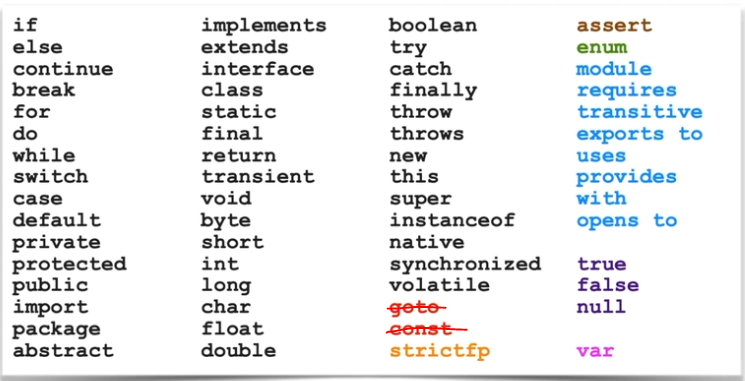
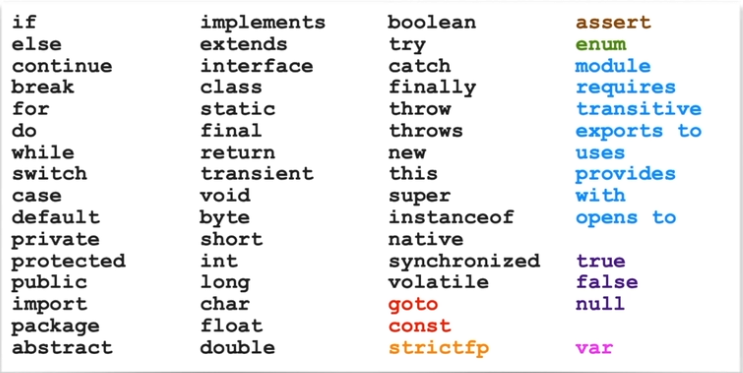
adds Java naming convetion examples
- updates README including Java keywords and more Java naming options
- adds MIT License in Java classes

diff --git a/src/main/java/com/amazon/naming/Main.java b/src/main/java/com/amazon/naming/Main.java
@@ -1,0 +1,38 @@
+/*
+ * MIT License
+ *
+ * Copyright (c)  2021 Jose Osuna
+ *
+ * Permission is hereby granted, free of charge, to any person obtaining a copy of this software and associated documentation files (the "Software"), to deal in the Software without restriction, including without limitation the rights to use, copy, modify, merge, publish, distribute, sublicense, and/or sell copies of the Software, and to permit persons to whom the Software is furnished to do so, subject to the following conditions:
+ *
+ * The above copyright notice and this permission notice shall be included in all copies or substantial portions of the Software.
+ *
+ * THE SOFTWARE IS PROVIDED "AS IS", WITHOUT WARRANTY OF ANY KIND, EXPRESS OR IMPLIED, INCLUDING BUT NOT LIMITED TO THE WARRANTIES OF MERCHANTABILITY, FITNESS FOR A PARTICULAR PURPOSE AND NONINFRINGEMENT. IN NO EVENT SHALL THE AUTHORS OR COPYRIGHT HOLDERS BE LIABLE FOR ANY CLAIM, DAMAGES OR OTHER LIABILITY, WHETHER IN AN ACTION OF CONTRACT, TORT OR OTHERWISE, ARISING FROM, OUT OF OR IN CONNECTION WITH THE SOFTWARE OR THE USE OR OTHER DEALINGS IN THE SOFTWARE.
+ *
+ */
+
+package com.amazon.naming;
+
+public class Main {
+    public static void main(String[] args) {
+        int _not = 3;
+        int $not = 6;
+        int not5 = 9;
+        int $$ = 12;
+
+        System.out.println("_not: " + _not);
+        System.out.println("$not: " + $not);
+        System.out.println("not5: " + not5);
+        System.out.println("$$: " + $$);
+
+        _Class _class = new _Class();
+        $Class $class = new $Class();
+        $ $ = new $();
+
+        xyz();
+    }
+
+    private static void xyz() {
+        System.out.println("this is xyz method");
+    }
+}

diff --git a/src/main/java/com/amazon/naming/$Class.java b/src/main/java/com/amazon/naming/$Class.java
@@ -1,0 +1,20 @@
+/*
+ * MIT License
+ *
+ * Copyright (c)  2021 Jose Osuna
+ *
+ * Permission is hereby granted, free of charge, to any person obtaining a copy of this software and associated documentation files (the "Software"), to deal in the Software without restriction, including without limitation the rights to use, copy, modify, merge, publish, distribute, sublicense, and/or sell copies of the Software, and to permit persons to whom the Software is furnished to do so, subject to the following conditions:
+ *
+ * The above copyright notice and this permission notice shall be included in all copies or substantial portions of the Software.
+ *
+ * THE SOFTWARE IS PROVIDED "AS IS", WITHOUT WARRANTY OF ANY KIND, EXPRESS OR IMPLIED, INCLUDING BUT NOT LIMITED TO THE WARRANTIES OF MERCHANTABILITY, FITNESS FOR A PARTICULAR PURPOSE AND NONINFRINGEMENT. IN NO EVENT SHALL THE AUTHORS OR COPYRIGHT HOLDERS BE LIABLE FOR ANY CLAIM, DAMAGES OR OTHER LIABILITY, WHETHER IN AN ACTION OF CONTRACT, TORT OR OTHERWISE, ARISING FROM, OUT OF OR IN CONNECTION WITH THE SOFTWARE OR THE USE OR OTHER DEALINGS IN THE SOFTWARE.
+ *
+ */
+
+package com.amazon.naming;
+
+public class $Class {
+    public $Class() {
+        System.out.println("my name is: " + $Class.this.getClass().getName());
+    }
+}

diff --git a/src/main/java/com/amazon/naming/_Class.java b/src/main/java/com/amazon/naming/_Class.java
@@ -1,0 +1,20 @@
+/*
+ * MIT License
+ *
+ * Copyright (c)  2021 Jose Osuna
+ *
+ * Permission is hereby granted, free of charge, to any person obtaining a copy of this software and associated documentation files (the "Software"), to deal in the Software without restriction, including without limitation the rights to use, copy, modify, merge, publish, distribute, sublicense, and/or sell copies of the Software, and to permit persons to whom the Software is furnished to do so, subject to the following conditions:
+ *
+ * The above copyright notice and this permission notice shall be included in all copies or substantial portions of the Software.
+ *
+ * THE SOFTWARE IS PROVIDED "AS IS", WITHOUT WARRANTY OF ANY KIND, EXPRESS OR IMPLIED, INCLUDING BUT NOT LIMITED TO THE WARRANTIES OF MERCHANTABILITY, FITNESS FOR A PARTICULAR PURPOSE AND NONINFRINGEMENT. IN NO EVENT SHALL THE AUTHORS OR COPYRIGHT HOLDERS BE LIABLE FOR ANY CLAIM, DAMAGES OR OTHER LIABILITY, WHETHER IN AN ACTION OF CONTRACT, TORT OR OTHERWISE, ARISING FROM, OUT OF OR IN CONNECTION WITH THE SOFTWARE OR THE USE OR OTHER DEALINGS IN THE SOFTWARE.
+ *
+ */
+
+package com.amazon.naming;
+
+public class _Class {
+    public _Class() {
+        System.out.println("my name is: " + _Class.this.getClass().getName());
+    }
+}

diff --git a/src/main/java/com/amazon/naming/$.java b/src/main/java/com/amazon/naming/$.java
@@ -1,0 +1,20 @@
+/*
+ * MIT License
+ *
+ * Copyright (c)  2021 Jose Osuna
+ *
+ * Permission is hereby granted, free of charge, to any person obtaining a copy of this software and associated documentation files (the "Software"), to deal in the Software without restriction, including without limitation the rights to use, copy, modify, merge, publish, distribute, sublicense, and/or sell copies of the Software, and to permit persons to whom the Software is furnished to do so, subject to the following conditions:
+ *
+ * The above copyright notice and this permission notice shall be included in all copies or substantial portions of the Software.
+ *
+ * THE SOFTWARE IS PROVIDED "AS IS", WITHOUT WARRANTY OF ANY KIND, EXPRESS OR IMPLIED, INCLUDING BUT NOT LIMITED TO THE WARRANTIES OF MERCHANTABILITY, FITNESS FOR A PARTICULAR PURPOSE AND NONINFRINGEMENT. IN NO EVENT SHALL THE AUTHORS OR COPYRIGHT HOLDERS BE LIABLE FOR ANY CLAIM, DAMAGES OR OTHER LIABILITY, WHETHER IN AN ACTION OF CONTRACT, TORT OR OTHERWISE, ARISING FROM, OUT OF OR IN CONNECTION WITH THE SOFTWARE OR THE USE OR OTHER DEALINGS IN THE SOFTWARE.
+ *
+ */
+
+package com.amazon.naming;
+
+public class $ {
+    public $() {
+        System.out.println("my name is: " + $.this.getClass().getName());
+    }
+}

diff --git a/README.md b/README.md
@@ -148,7 +148,9 @@ double someDouble = 4.0f;
 ### Variables
 
 #### Names
-Names must not start with **_**, numeric character, or include a white space. 
+Names must not start with **_**, numeric characters or include a white space.
+Use **_** alone is illegal
+By convention, names must not start **$**
 
 #### Declaration
 ````java
